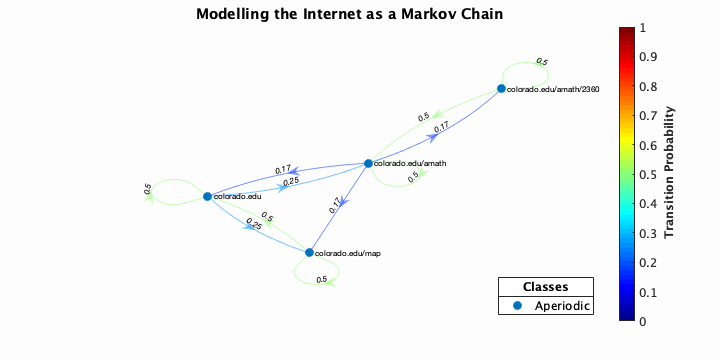
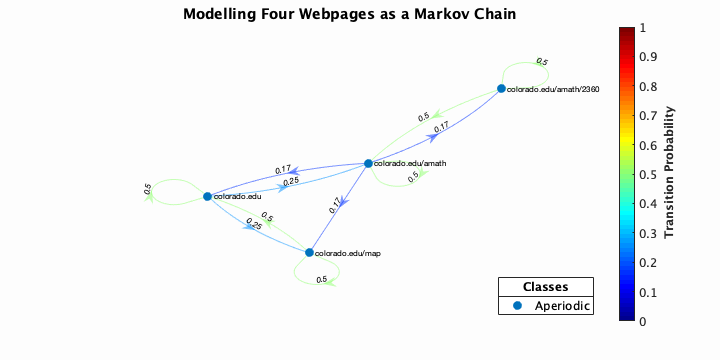
minor fixes"

Changed region(s): [[0.2444, 0.0, 0.7333, 0.0611]]

diff --git a/project_2/markov_chain_3_1_4.m b/project_2/markov_chain_3_1_4.m
@@ -1,7 +1,7 @@
 clear all;
 
 % This file calculates and plots the probability you are on each of the
-% four pages at a given iteration. Ths file was used to solve problem 3.1.1
+% five pages at a given iteration. Ths file was used to solve problem 3.1.1
 % in Project 2 for APPM 2360 Fall 2018
 
 % Create right transition matrix A 
@@ -51,8 +51,8 @@ ax.YLim = [0, 1];
 ax.YTick = [0, 0.25, 0.5, 0.75, 1];
 ax.XLabel.Interpreter = 'LaTeX';
 ax.YLabel.Interpreter = 'LaTeX';
-ax.YLabel.String = 'Probability of being on page';
-ax.XLabel.String = 'steps';
+ax.YLabel.String = 'Probability of Being on Page';
+ax.XLabel.String = 'Steps';
 ax.ColorOrder = colors;
 ax.Box = 'off';
 ax.LineWidth = 1.5;
@@ -61,8 +61,6 @@ ax.XColor = [29, 29, 29]/255;
 ax.YColor = [29, 29, 29]/255;
 ax.Color = [253, 253, 253]/255;
 ax.YMinorGrid = 'off';
-
-      
 
 hold on
 p = plot(x, reshape(y(1,:,:),[5,250]))
@@ -76,4 +74,4 @@ lgd.Box = 'off';
 lgd.TextColor = [29, 29, 29]/255;
 lgd.Location = 'east';
 
-t = title("Probability that user is on one of five pages after n steps");
+t = title("Probability That User Is on One of Five Pages After n Steps");

diff --git a/project_2/markov_chain_3_1_4a.m b/project_2/markov_chain_3_1_4a.m
@@ -1,7 +1,7 @@
 clear all;
 
-% This file calculates and plots the markov chain of the model internet.
-% Ths file was used to solve problem 2.1.1 in Project 2 for APPM 2360 Fall 2018
+% This file calculates and plots the markov chain of the model internet with five pages.
+% Ths file was used to solve problem 3.1.4 in Project 2 for APPM 2360 Fall 2018
 
 % Create right transition matrix A and markov chain object
 A = [0.5, 0.25, 0.25, 0, 0;
@@ -39,4 +39,4 @@ ax.FontSize = 16;
 hold on
 axis off
 graphplot(mc,'ColorNodes',true,'ColorEdges',true, 'LabelEdges',true)
-t = title("Modelling five webpages as a Markov Chain");
+t = title("Modelling Five Webpages as a Markov Chain");

diff --git a/project_2/markov_chain_3_1_1.m b/project_2/markov_chain_3_1_1.m
@@ -49,8 +49,8 @@ ax.YLim = [0, 1];
 ax.YTick = [0, 0.25, 0.5, 0.75, 1];
 ax.XLabel.Interpreter = 'LaTeX';
 ax.YLabel.Interpreter = 'LaTeX';
-ax.YLabel.String = 'Probability of being on page';
-ax.XLabel.String = 'steps';
+ax.YLabel.String = 'Probability of Being on Page';
+ax.XLabel.String = 'Steps';
 ax.ColorOrder = colors;
 ax.Box = 'off';
 ax.LineWidth = 1.5;
@@ -74,5 +74,5 @@ lgd.Box = 'off';
 lgd.TextColor = [29, 29, 29]/255;
 lgd.Location = 'northwest';
 
-t = title("Probability that user is on one of four pages after n steps");
+t = title("Probability That User Is on One of Four Pages After n Steps");
 

diff --git a/project_2/markov_chain_2_1_1.m b/project_2/markov_chain_2_1_1.m
@@ -1,6 +1,6 @@
 clear all;
 
-% This file calculates and plots the markov chain of the model internet.
+% This file calculates and plots the markov chain of the model internet with four pages.
 % Ths file was used to solve problem 2.1.1 in Project 2 for APPM 2360 Fall 2018
 
 % Create right transition matrix A and markov chain object
@@ -39,7 +39,7 @@ hold on
 axis off
 
 graphplot(mc,'ColorNodes',true,'ColorEdges',true, 'LabelEdges',true)
-t = title("Modelling four webpages as a Markov Chain");
+t = title("Modelling Four Webpages as a Markov Chain");
 
  
 

diff --git a/project_2/markov_chain_3_1_5.m b/project_2/markov_chain_3_1_5.m
@@ -1,8 +1,8 @@
 clear all;
 
-% This file calculates and plots the probability you are on each of the
-% four pages at a given iteration. Ths file was used to solve problem 3.1.1
-% in Project 2 for APPM 2360 Fall 2018
+% This file calculates and plots the absolute error in probability you are 
+% on each of the five pages at a given iteration. Ths file was used to solve
+% problem 3.1.5 in Project 2 for APPM 2360 Fall 2018
 
 % Create right transition matrix A 
 A = [0.5, 0.25, 0.25, 0, 0;
